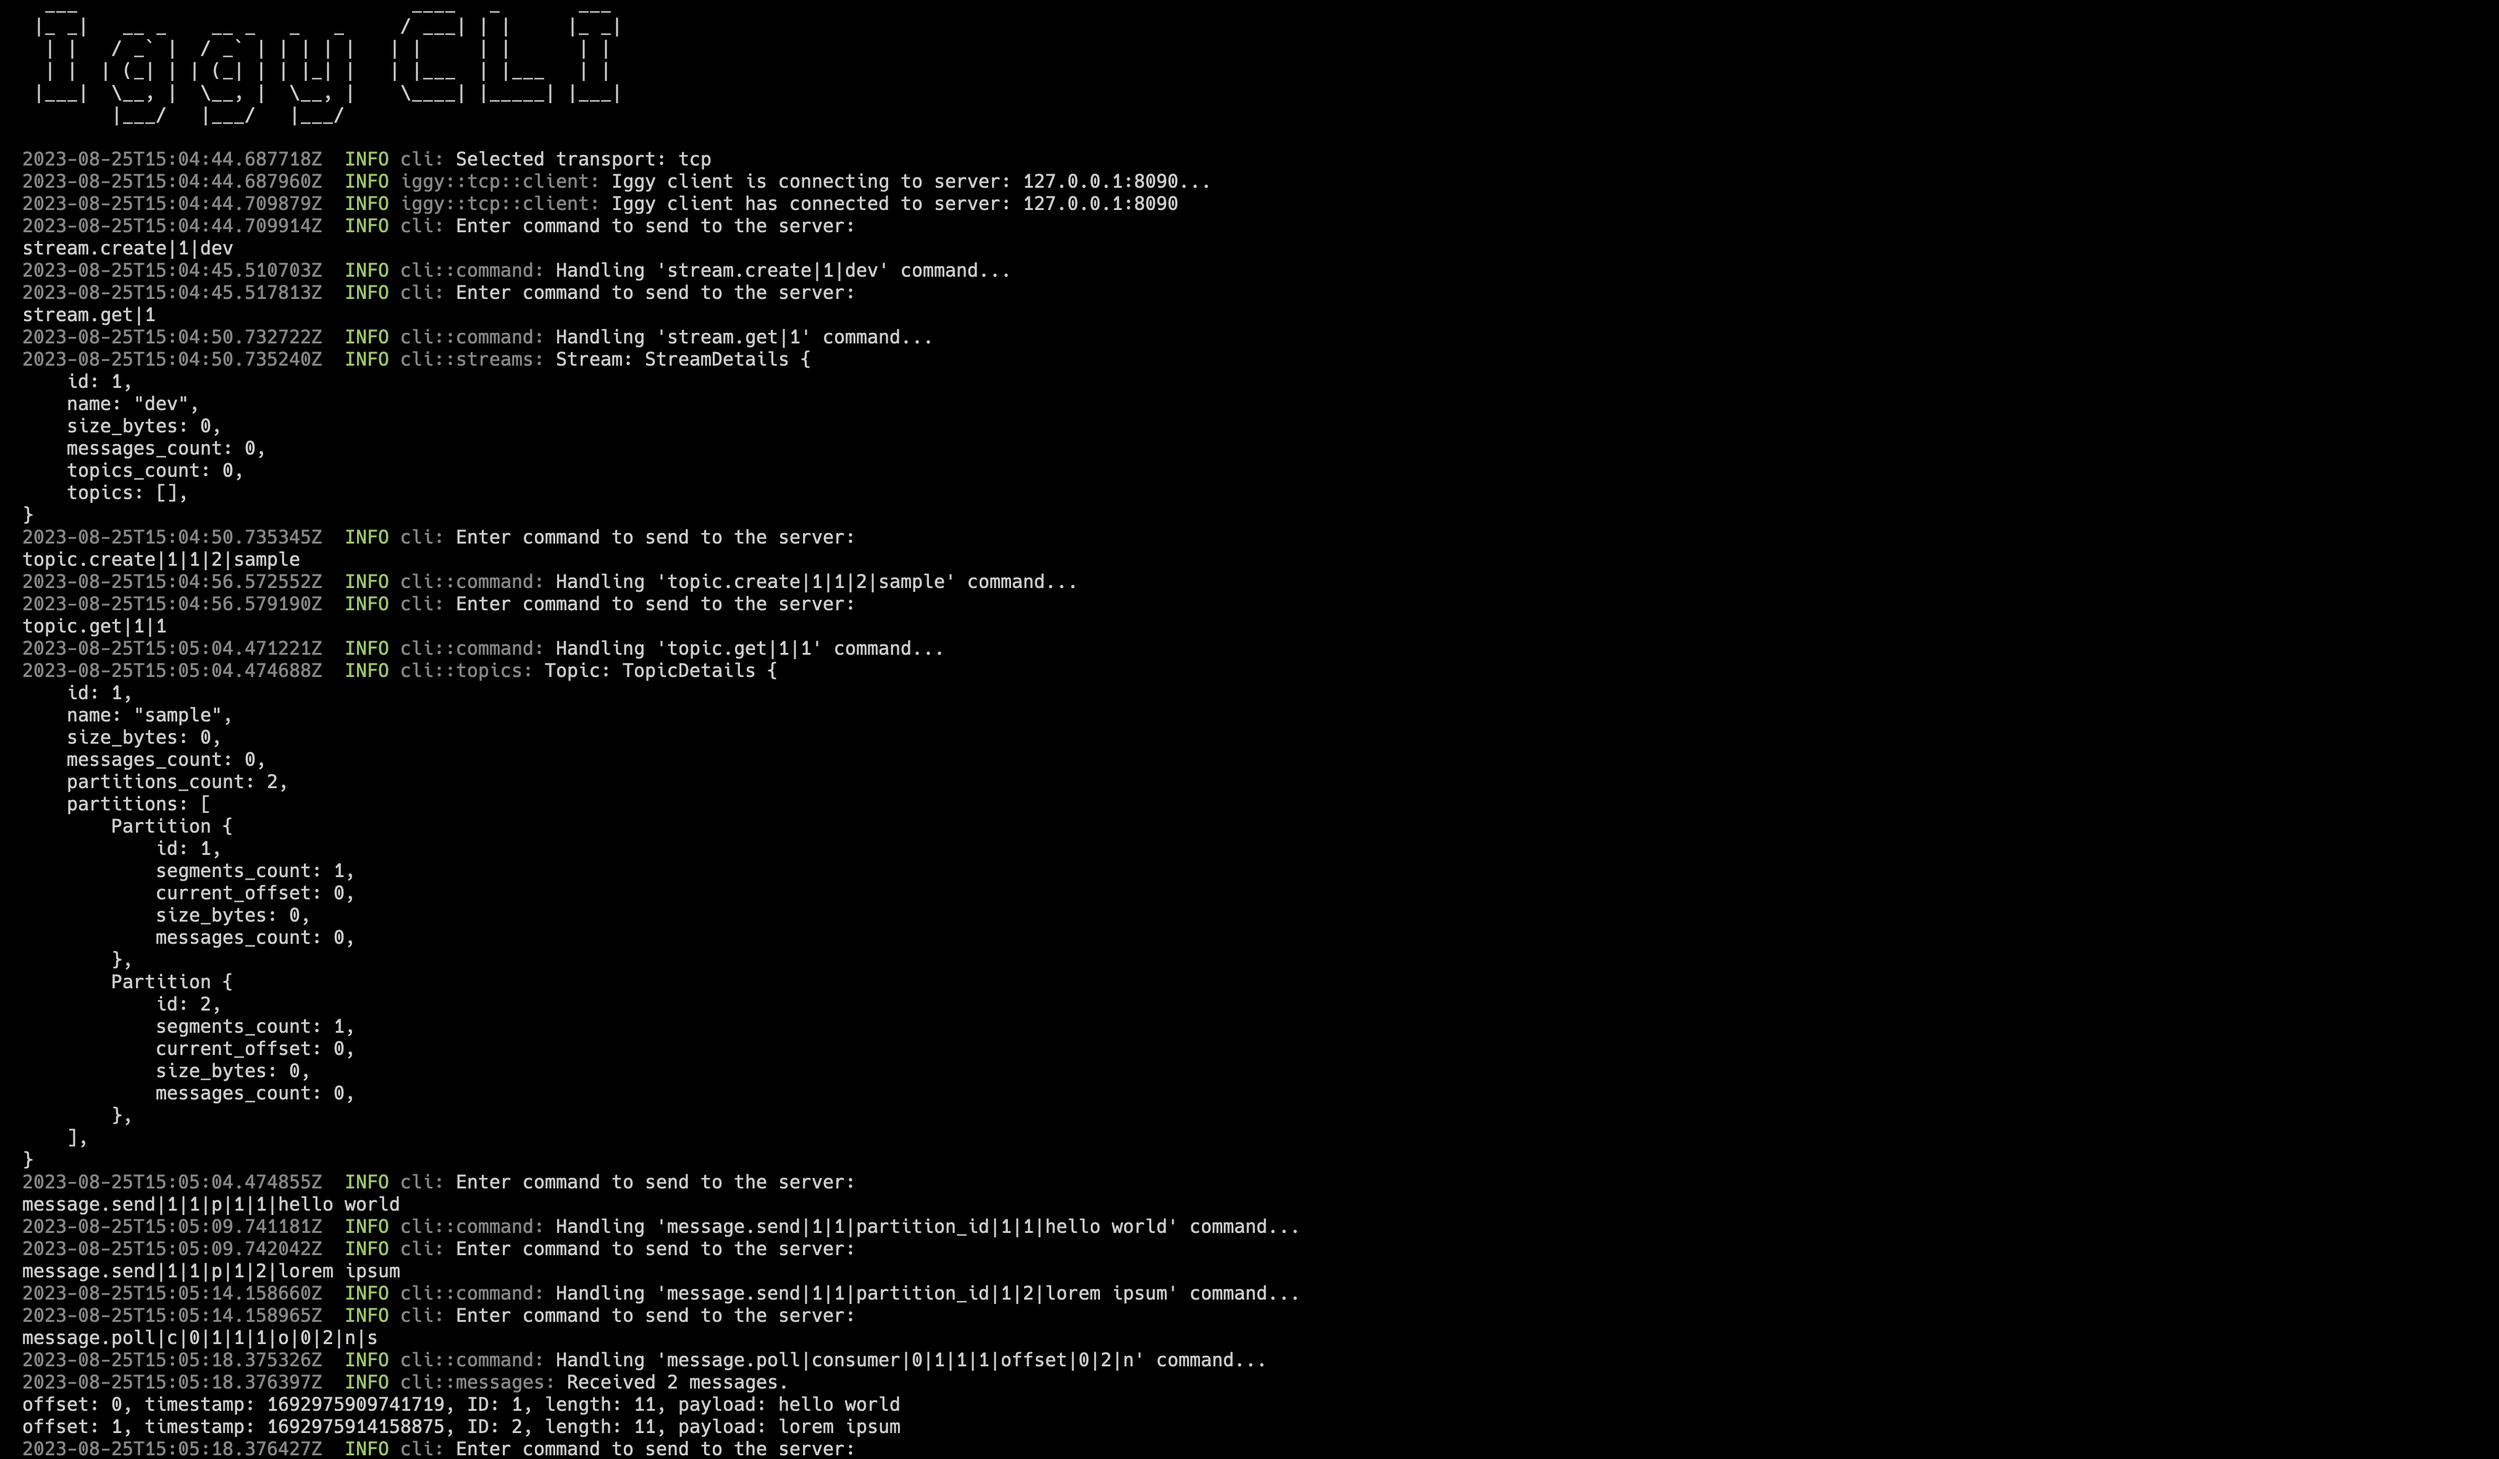
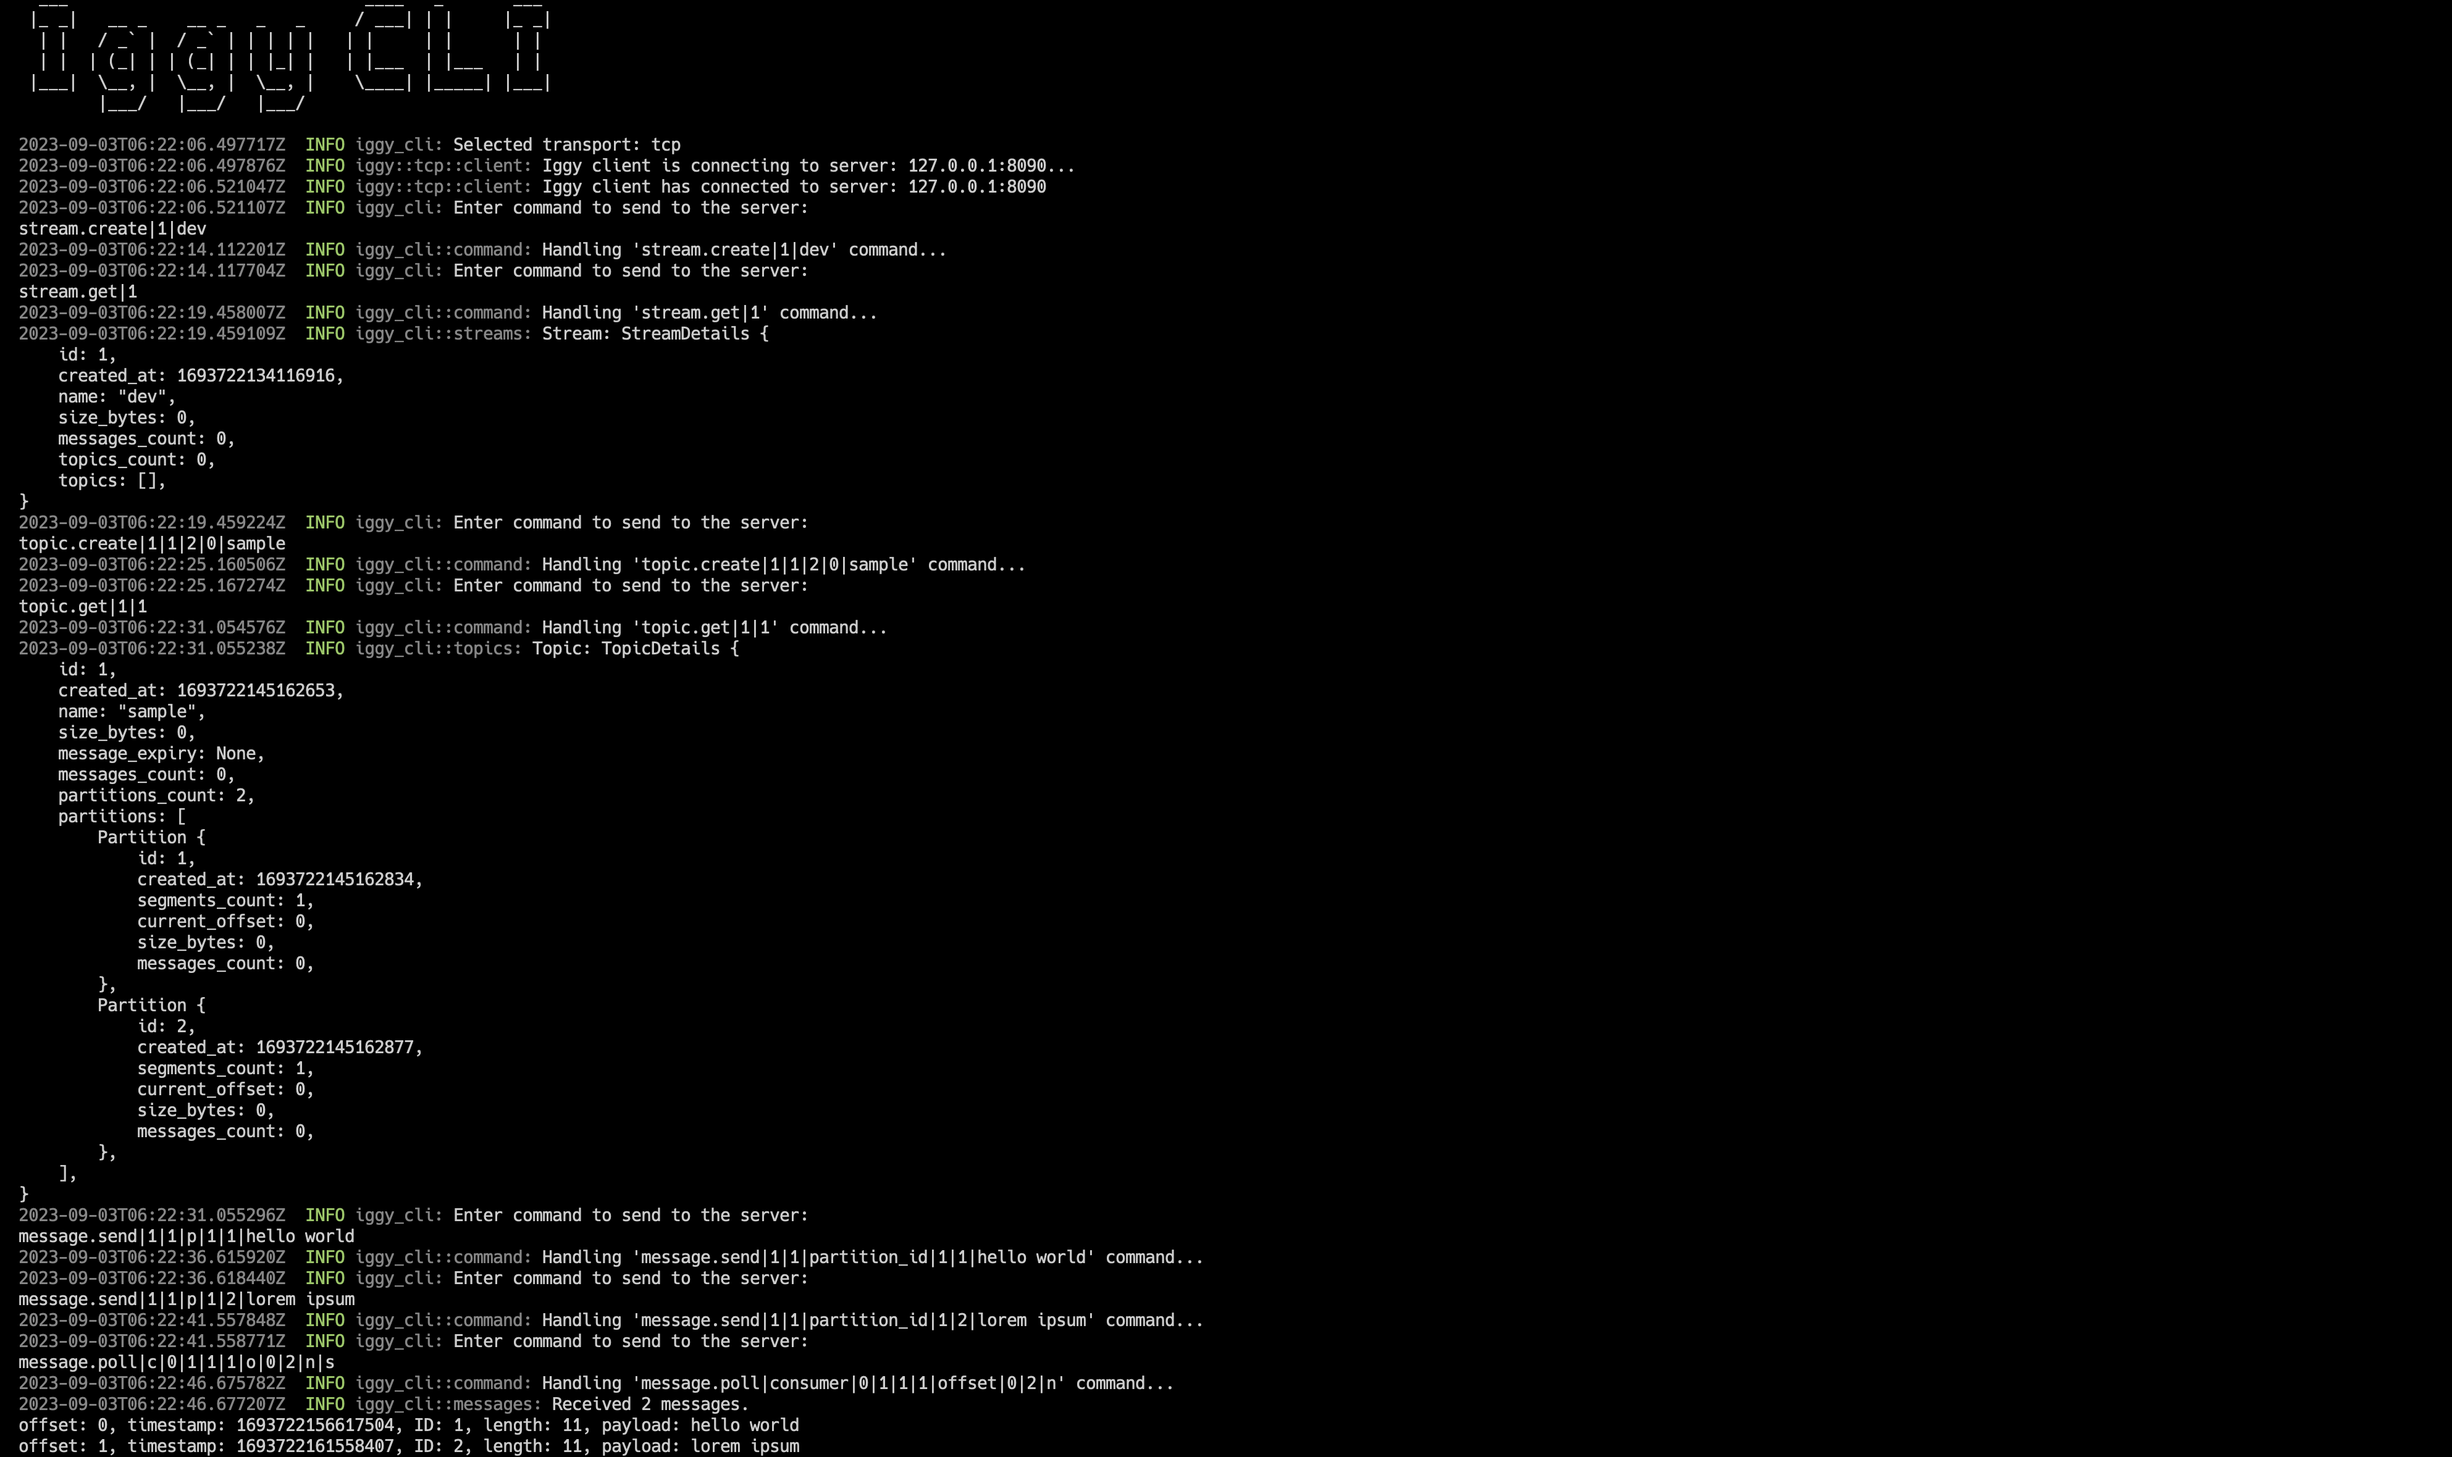
Simplified emedded DB models

Changed region(s): [[0.0, 0.0, 0.4997, 1.0]]

diff --git a/streaming/src/partitions/storage.rs b/streaming/src/partitions/storage.rs
@@ -46,9 +46,6 @@ impl PartitionStorage for FilePartitionStorage {
 
 #[derive(Debug, Serialize, Deserialize)]
 struct PartitionData {
-    topic_id: u32,
-    stream_id: u32,
-    partition_id: u32,
     created_at: u64,
 }
 
@@ -257,36 +254,26 @@ impl Storage<Partition> for FilePartitionStorage {
             ));
         }
 
-        let insert_result = self.db.insert(
-            get_key(
-                partition.stream_id,
-                partition.topic_id,
-                partition.partition_id,
-            ),
-            rmp_serde::to_vec(&PartitionData {
-                topic_id: partition.topic_id,
-                stream_id: partition.stream_id,
-                partition_id: partition.partition_id,
-                created_at: partition.created_at,
-            })
-            .unwrap(),
-        );
-
-        if insert_result.is_err() {
+        if self
+            .db
+            .insert(
+                get_key(
+                    partition.stream_id,
+                    partition.topic_id,
+                    partition.partition_id,
+                ),
+                rmp_serde::to_vec(&PartitionData {
+                    created_at: partition.created_at,
+                })
+                .unwrap(),
+            )
+            .is_err()
+        {
             return Err(Error::CannotCreatePartition(
                 partition.partition_id,
                 partition.stream_id,
                 partition.topic_id,
             ));
-        }
-
-        let insert_result = insert_result.unwrap();
-        if insert_result.is_some() {
-            info!(
-                "Updated partition with ID: {} for topic with ID: {} for stream with ID: {}",
-                partition.partition_id, partition.topic_id, partition.stream_id
-            );
-            // return Ok(());
         }
 
         for segment in partition.get_segments() {
@@ -318,6 +305,7 @@ impl Storage<Partition> for FilePartitionStorage {
                 partition.stream_id,
             ));
         }
+
         if fs::remove_dir_all(&partition.path).await.is_err() {
             return Err(Error::CannotDeletePartitionDirectory(
                 partition.partition_id,

diff --git a/streaming/src/topics/storage.rs b/streaming/src/topics/storage.rs
@@ -176,8 +176,6 @@ impl TopicStorage for FileTopicStorage {
 
 #[derive(Debug, Serialize, Deserialize)]
 struct TopicData {
-    topic_id: u32,
-    stream_id: u32,
     name: String,
     created_at: u64,
     message_expiry: Option<u32>,
@@ -314,8 +312,6 @@ impl Storage<Topic> for FileTopicStorage {
             .insert(
                 get_key(topic.stream_id, topic.topic_id),
                 rmp_serde::to_vec(&TopicData {
-                    topic_id: topic.topic_id,
-                    stream_id: topic.stream_id,
                     name: topic.name.clone(),
                     created_at: topic.created_at,
                     message_expiry: topic.message_expiry,

diff --git a/streaming/src/streams/storage.rs b/streaming/src/streams/storage.rs
@@ -31,7 +31,6 @@ impl StreamStorage for FileStreamStorage {}
 
 #[derive(Debug, Serialize, Deserialize)]
 struct StreamData {
-    id: u32,
     name: String,
     created_at: u64,
 }
@@ -152,7 +151,6 @@ impl Storage<Stream> for FileStreamStorage {
             .insert(
                 get_key(stream.id),
                 rmp_serde::to_vec(&StreamData {
-                    id: stream.id,
                     name: stream.name.clone(),
                     created_at: stream.created_at,
                 })

diff --git a/README.MD b/README.MD
@@ -101,7 +101,7 @@ Start the CLI (transports: `quic`, `tcp`, `http`):
 
 `cargo r --bin iggy-cli -r -- --transport tcp`
 
-Create a stream named `dev` with ID 1:
+Create a stream with ID 1 named `dev`:
 
 `stream.create|1|dev`
 
@@ -113,7 +113,7 @@ Get stream details (ID 1):
 
 `stream.get|1`
 
-Create a topic named `sample` with ID 1, 2 partitions (IDs 1 and 2) and disabled message expiry (0 seconds) for stream `dev` (ID 1):
+Create a topic for stream `dev` (ID 1), with ID 1, 2 partitions (IDs 1 and 2), disabled message expiry (0 seconds), named `sample`:
 
 `topic.create|1|1|2|0|sample`
 
